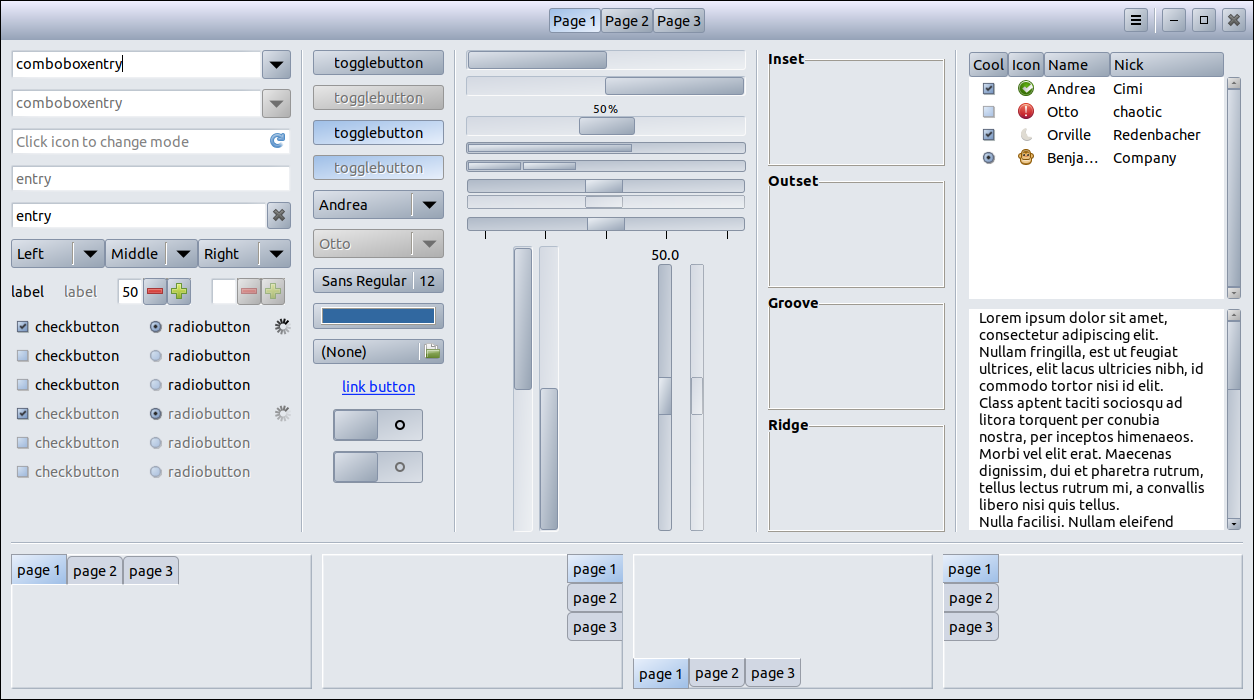
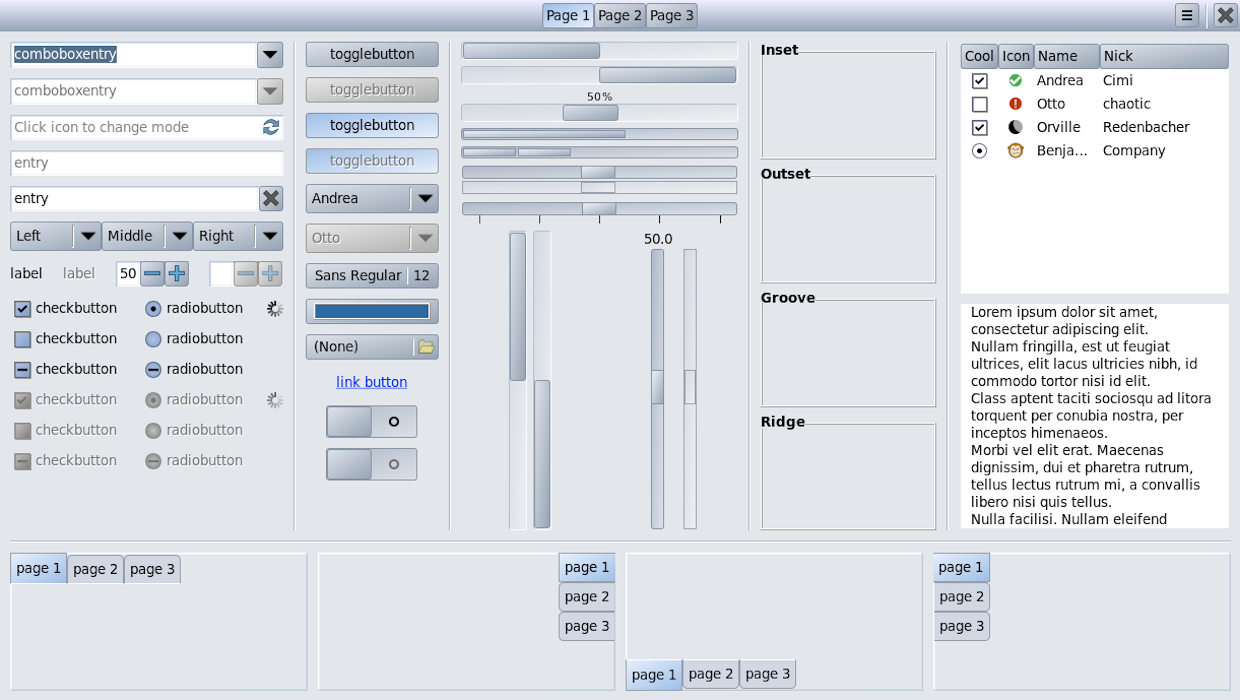
fixes for hidpi - changed assets to svg - added background gradients - updated screenshot

Changed region(s): [[0.0, 0.0, 1.0, 1.0], [0.3984, 0.54, 0.4597, 0.57]]

diff --git a/src/gtk-3.0/gtk-widgets.css b/src/gtk-3.0/gtk-widgets.css
@@ -103,7 +103,7 @@ button.link > label {
 	text-decoration-line: underline;
 }
 button.color * {
-	border-image: url("assets/frame-etched-out.png") 2 / 2px stretch;
+	border-image: url("assets/frame-etched-out.svg") 2 / 2px stretch;
 	margin: 0 .3em;
 	min-height: 1.2em;
 }
@@ -180,28 +180,58 @@ checkbutton:hover, radiobutton:hover {
 checkbutton label, radiobutton label {
 	padding-right: .5em;
 }
-check:disabled, radio:disabled {
-	color: #6f6f6f;
+check:disabled {
+	background-image: linear-gradient(to bottom right, #C4C4C4, #7F7F7F);
+	color: #6F6F6F;
+	border: 1px solid #8D8D8D;
+	box-shadow: #9e9a91 1px 1px inset, #9e9a91 1px 1px;
 }
 check {
-	-gtk-icon-source: url("assets/check-off.png");
+	background-image: linear-gradient(to bottom right, #BBBFE7, #7AA3C9);
+	border: 1px solid #5C6578;
+	box-shadow: #9e9a91 1px 1px inset, #9e9a91 1px 1px;
 }
 check:checked {
-	-gtk-icon-source: url("assets/check-on.png");
+	-gtk-icon-source: url("assets/check.svg");
 }
-
+check:checked:disabled {
+	-gtk-icon-source: url("assets/check-disabled.svg");
+}
+check:indeterminate {
+	-gtk-icon-source: url("assets/indeterminate.svg");
+}
+check:indeterminate:disabled {
+	-gtk-icon-source: url("assets/indeterminate-disabled.svg");
+}
 /******************
  * radion buttons *
  ******************/
 radio,
 .view.cellradio {
-	-gtk-icon-source: -gtk-scaled(url("assets/option-off.png"));
-	margin: .3em .4em .3em .3em;
-	min-height: 1em;
-	min-width: 1em;
+	background-image: radial-gradient(#BBBFE7, #7AA3C9);
+	border: 1px solid #5C6578;
+	border-radius: 100%;
 }
 radio:checked {
-	-gtk-icon-source: -gtk-scaled(url("assets/option-on.png"));
+	-gtk-icon-source: url("assets/radio.svg");
+}
+radio:disabled {
+	background-image: radial-gradient(#C4C4C4, #7F7F7F);
+	border: 1px solid #8D8D8D;
+}
+radio:checked:disabled {
+	-gtk-icon-source: url("assets/radio-disabled.svg");
+	border: 1px solid #8D8D8D;
+	border-radius: 100%;
+}
+radio:indeterminate {
+	-gtk-icon-source: url("assets/indeterminate.svg");
+}
+radio:indeterminate:disabled {
+	-gtk-icon-source: url("assets/indeterminate-disabled.svg");
+	background-image: radial-gradient(#C4C4C4, #7F7F7F);
+	border: 1px solid #8D8D8D;
+	border-radius: 100%;
 }
 
 /****************
@@ -209,7 +239,7 @@ radio:checked {
  ****************/
 entry {
 	background: @theme_base_color;
-	border-image: url("assets/depression.png") 2 / 2px stretch;
+	border-image: url("assets/depression.svg") 2 / 2px stretch;
 	padding: .35em;
 }
 
@@ -218,7 +248,7 @@ entry {
  ****************/
 spinbutton {
 	background: @theme_bg_color;
-	border-image: url("assets/entry.png") 2 / 2px stretch;
+	border-image: url("assets/entry.svg") 2 / 2px stretch;
 }
 spinbutton * {
 	background: @theme_base_color;
@@ -240,7 +270,7 @@ combobox arrow {
 	min-width: 1.5em;
 }
 combobox button:first-child arrow {
-	border-image: url("assets/combobox-arrow-separator.png") 2 / 2px stretch;
+	border-image: url("assets/combobox-arrow-separator.svg") 2 / 2px stretch;
 	padding-left: .5em;
 }
 
@@ -249,7 +279,7 @@ combobox button:first-child arrow {
  *********/
 
 menubar {
-	border-image: url("assets/bump.png") 2 / 2px stretch;
+	border-image: url("assets/bump.svg") 2 / 2px stretch;
 	-GtkWidget-window-dragging: true;
 	padding-left: 0.3em;
 }
@@ -260,7 +290,7 @@ menubar decoration,
 menu {
 	background: @theme_bg_color;
 	border: solid 2px;
-	border-image: url("assets/bump.png") 3 / 3px stretch;
+	border-image: url("assets/bump.svg") 3 / 3px stretch;
 	padding: 1px;
 }
 menubar > menuitem {
@@ -284,7 +314,7 @@ menuitem:hover {
 	color: #0f2047;
 }
 menu separator {
-	border-image: url("assets/horizontal-line.png") 1 / 1px stretch;
+	box-shadow: #9e9a91 1px 1px inset, white -1px -1px inset;
 	min-height: 1px;
 	margin: .2em .4em;
 }
@@ -308,7 +338,7 @@ notebook {
 	padding: 0;
 }
 notebook.frame {
-	border-image: url("assets/bump.png") 2 / 2px stretch;
+	border-image: url("assets/bump.svg") 2 / 2px stretch;
 }
 notebook header.top {
 	padding-bottom: 2px;
@@ -432,7 +462,7 @@ decoration {
  ****************************/
 .app-notification {
 	background-color: @theme_info_bg_color;
-	border-image: url("assets/frame-etched-out.png") 3 / 3px stretch;
+	border-image: url("assets/frame-etched-out.svg") 3 / 3px stretch;
 	padding: 7px;
 }
 .app-notification border {
@@ -465,11 +495,11 @@ modelbutton.flat:hover {
  * toolbar *
  ***********/
 toolbar {
-	border-image: url("assets/bump.png") 2 / 2px stretch;
+	border-image: url("assets/bump.svg") 2 / 2px stretch;
 	padding: 2px;
 }
 toolbar separator {
-	border-image: url("assets/vertical-line.png") 1 / 1px stretch;
+	border-image: url("assets/vertical-line.svg") 1 / 1px stretch;
 	margin: 5px;
 	padding: 1px;
 }
@@ -504,7 +534,7 @@ statusbar button.toggle:active:hover {
 }
 statusbar frame,
 statusbar > label {
-	border-image: url("assets/depression.png") 2 / 2px stretch;
+	border-image: url("assets/depression.svg") 2 / 2px stretch;
 }
 statusbar frame {
 	padding: 0;
@@ -532,11 +562,11 @@ list row:hover {
  * separators *
  **************/
 separator.horizontal {
-	border-image: url("assets/horizontal-line.png") 1 / 1px stretch;
+	border-image: url("assets/horizontal-line.svg") 1 / 1px stretch;
 	padding: 1px;
 }
 separator.vertical {
-	border-image: url("assets/vertical-line.png") 1 / 1px stretch;
+	border-image: url("assets/vertical-line.svg") 1 / 1px stretch;
 	padding: 1px;
 }
 
@@ -544,7 +574,7 @@ separator.vertical {
  * paned *
  *********/
 paned > separator {
-	background: url("assets/paned-vertical-separator.png") no-repeat center;
+	background: url("assets/paned-separator-vertical.svg") no-repeat center;
 	-gtk-icon-source: none;
 	padding: 1px;
 }
@@ -552,18 +582,18 @@ paned > separator:hover {
 	background-color: @theme_selected_bg_color;
 }
 paned.vertical > separator {
-	background-image: url("assets/paned-separator-horizontal.png");
+	background-image: url("assets/paned-separator-horizontal.svg");
 }
 
 /**********
  * frames *
  **********/
 frame > border {
-	border-image: url("assets/frame-etched-out.png") 2 / 2px stretch;
+	border-image: url("assets/frame-etched-out.svg") 2 / 2px stretch;
 	padding: 2px;
 }
 frame { /* LibreOffice combobox's dropdown */
-	border-image: url("assets/frame-etched-out.png") 3 / 3px stretch;
+	border-image: url("assets/frame-etched-out.svg") 3 / 3px stretch;
 	padding: 3px;
 }
 box > frame {
@@ -609,7 +639,7 @@ scale slider:hover {
 scale slider:disabled,
 scale trough:disabled {
 	background-image: linear-gradient(to bottom right, #d4d9e2, #eceff2);
-	border-image: url("assets/scroller-bg.png") 1 / 1px;
+	border-image: url("assets/scroller-bg.svg") 1 / 1px;
 }
 scale.horizontal trough {
 	padding: 0 1.2em;
@@ -651,12 +681,12 @@ scale.color slider {
 	border: 0;
 }
 scale.color.horizontal slider {
-	background-image: url("assets/color-scale-slider-horizontal.png");
+	background-image: url("assets/color-scale-slider-horizontal.svg");
 	min-height: 14px;
 	min-width: 16px;
 }
 scale.color.vertical slider {
-	background-image: url("assets/color-scale-slider-vertical.png");
+	background-image: url("assets/color-scale-slider-vertical.svg");
 	min-height: 16px;
 	min-width: 14px;
 }
@@ -768,7 +798,7 @@ calendar.header {
 	background: @theme_bg_color;
 }
 calendar.view {
-	border-image: url("assets/frame-etched-out.png") 2 / 2px stretch;
+	border-image: url("assets/frame-etched-out.svg") 2 / 2px stretch;
 }
 calendar:indeterminate {
 	color: alpha(@theme_fg_color, 0.4);
@@ -791,7 +821,7 @@ calendar.highlight {
 	background-color: @theme_error_bg_color;
 }
 .info, .warning, .error {
-	border-image: url("assets/frame-etched-out.png") 3 / 3px stretch;
+	border-image: url("assets/frame-etched-out.svg") 3 / 3px stretch;
 }
 
 /***********************
@@ -822,7 +852,7 @@ dialog filechooser .path-bar image {
 	margin-right: 5px;
 }
 dialog filechooser .frame.sidebar separator {
-	border-image: url("assets/horizontal-line.png") 1 / 1px stretch;
+	border-image: url("assets/horizontal-line.svg") 1 / 1px stretch;
 	margin: 3px 5px;
 	padding: 1px;
 }
@@ -842,7 +872,7 @@ dialog filechooser frame border {
  * color chooser *
  *****************/
 dialog colorchooser colorswatch {
-	border-image: url("assets/frame-etched-out.png") 2 / 2px stretch;
+	border-image: url("assets/frame-etched-out.svg") 2 / 2px stretch;
 	padding: 2px;
 }
 dialog colorchooser colorswatch.dark * {
@@ -868,7 +898,7 @@ printdialog > box > box {
 	background: @theme_bg_color;
 }
 printdialog notebook stack {
-	border-image: url("assets/notebook.png") 3 / 3px stretch;
+	border-image: url("assets/notebook.svg") 3 / 3px stretch;
 	padding: 2px;
 }
 printdialog paper {
